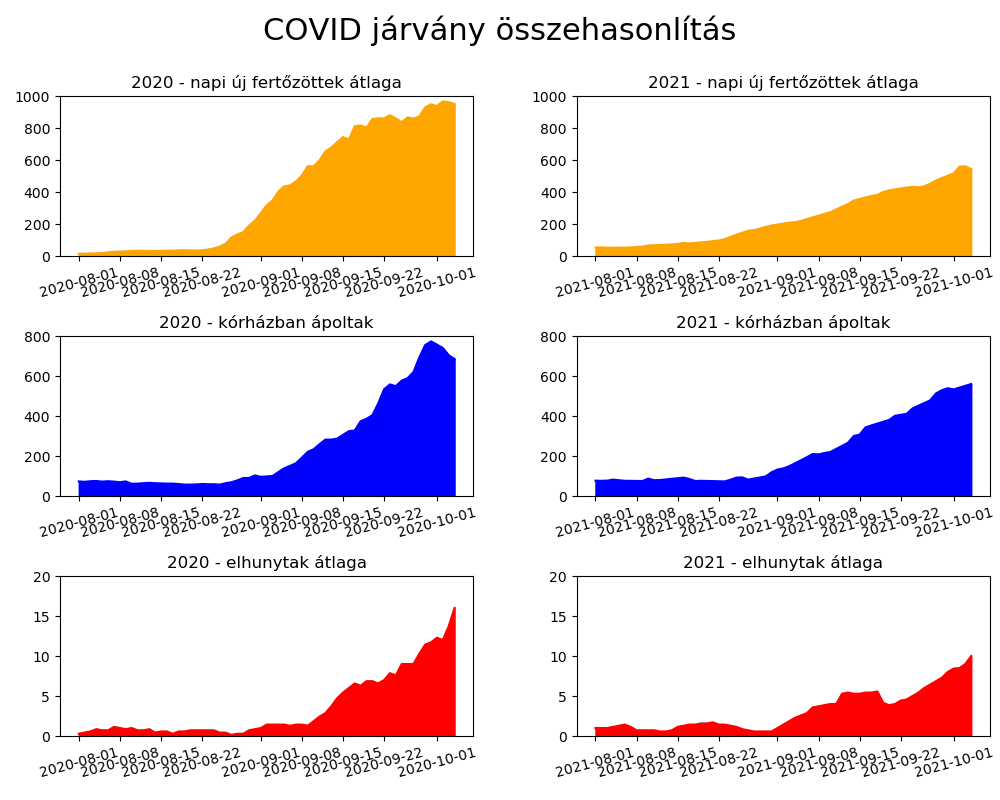
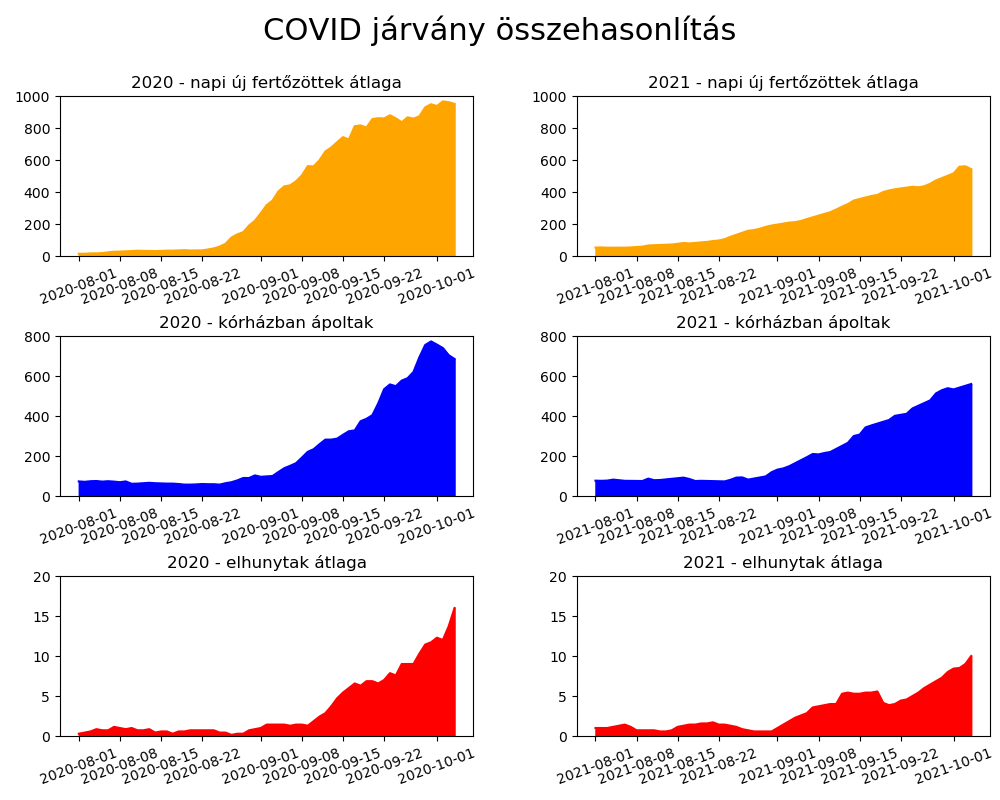
Forgatás növelése

diff --git a/kép_összehasonlítás.py b/kép_összehasonlítás.py
@@ -52,42 +52,42 @@ ax1=fig.add_subplot(spec[0], label="1")
 ax1.plot(df2020['Dátum'], df2020['Napi új fertőzött átlag'], color='orange')
 ax1.set_ylim([0,maxuf])
 ax1.set_title("2020 - napi új fertőzöttek átlaga")
-ax1.tick_params(axis='x', rotation=15)
+ax1.tick_params(axis='x', rotation=20)
 ax1.fill_between(df2020['Dátum'], df2020['Napi új fertőzött átlag'], color="orange")
 
 ax2=fig.add_subplot(spec[1], label="2")
 ax2.plot(df2021['Dátum'], df2021['Napi új fertőzött átlag'], color='orange')
 ax2.set_ylim([0,maxuf])
 ax2.set_title("2021 - napi új fertőzöttek átlaga")
-ax2.tick_params(axis='x', rotation=15)
+ax2.tick_params(axis='x', rotation=20)
 ax2.fill_between(df2021['Dátum'], df2021['Napi új fertőzött átlag'], color="orange")
 
 ax3=fig.add_subplot(spec[2], label="3")
 ax3.plot(df2020['Dátum'], df2020['Kórházban ápoltak'], color='blue')
 ax3.set_ylim([0,maxkr])
 ax3.set_title("2020 - kórházban ápoltak")
-ax3.tick_params(axis='x', rotation=15)
+ax3.tick_params(axis='x', rotation=20)
 ax3.fill_between(df2020['Dátum'], df2020['Kórházban ápoltak'], color="blue")
 
 ax4=fig.add_subplot(spec[3], label="4")
 ax4.plot(df2021['Dátum'], df2021['Kórházban ápoltak'], color='blue')
 ax4.set_ylim([0,maxkr])
 ax4.set_title("2021 - kórházban ápoltak")
-ax4.tick_params(axis='x', rotation=15)
+ax4.tick_params(axis='x', rotation=20)
 ax4.fill_between(df2021['Dátum'], df2021['Kórházban ápoltak'], color="blue")
 
 ax5=fig.add_subplot(spec[4], label="5")
 ax5.plot(df2020['Dátum'], df2020['Napi új elhunyt átlag'], color='red')
 ax5.set_ylim([0,maxeh])
 ax5.set_title("2020 - elhunytak átlaga")
-ax5.tick_params(axis='x', rotation=15)
+ax5.tick_params(axis='x', rotation=20)
 ax5.fill_between(df2020['Dátum'], df2020['Napi új elhunyt átlag'], color="red")
 
 ax6=fig.add_subplot(spec[5], label="6")
 ax6.plot(df2021['Dátum'], df2021['Napi új elhunyt átlag'], color='red')
 ax6.set_ylim([0,maxeh])
 ax6.set_title("2021 - elhunytak átlaga")
-ax6.tick_params(axis='x', rotation=15)
+ax6.tick_params(axis='x', rotation=20)
 ax6.fill_between(df2021['Dátum'], df2021['Napi új elhunyt átlag'], color="red")
 
 fig.suptitle('COVID járvány összehasonlítás', fontsize=22)
